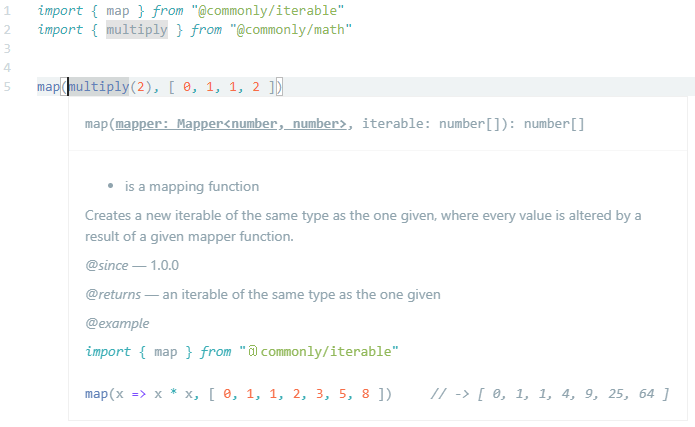
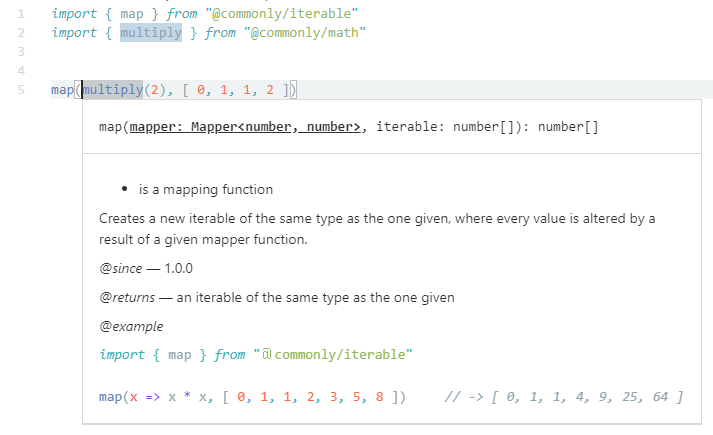
chore(docs): update README.md

diff --git a/README.md b/README.md
@@ -100,7 +100,7 @@ Nam ac ultricies lacus, ac consequat lorem. Pellentesque luctus dapibus tempor.
 <br/>
 <br/>
 <br/>
-<img src=".github/assets/demo/inline-documentation-alt4.png" 
+<img src=".github/assets/demo/inline-documentation.png" 
     height="300" align="right" hspace="0" />
 <p align="left">
   <strong>Inline documentation</strong><br/>
